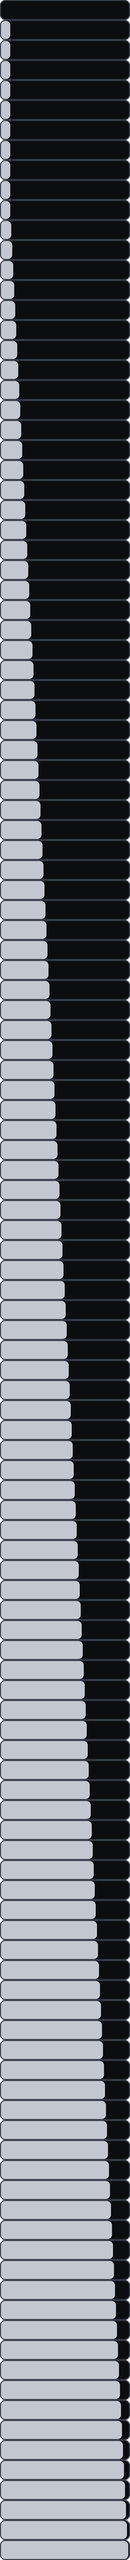
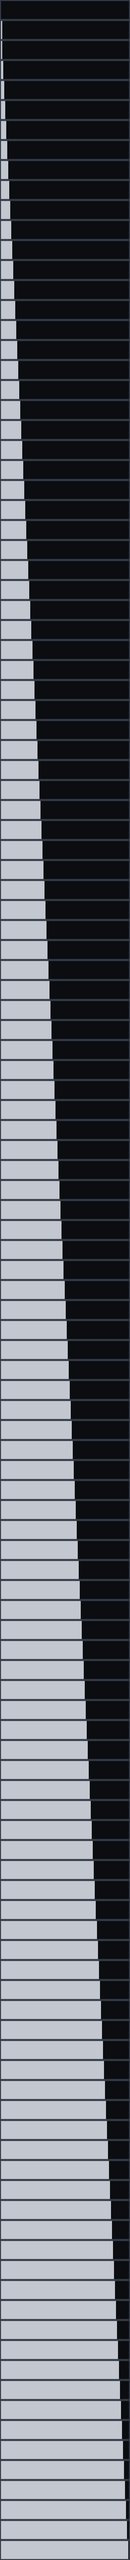
1.7.2: square sliders, two-way matrix AMOUNT
Claude-Session: https://claude.ai/code/session_0186Jh2iBUBCFtuBbzdcXJhH

diff --git a/tools/gen_art.py b/tools/gen_art.py
@@ -81,13 +81,26 @@ def bar(w, h, n=128):
     for i in range(n):
         v = i / (n - 1)
         im = canvas(w, h); d = ImageDraw.Draw(im)
-        r = 5 * SS
-        d.rounded_rectangle((0, 0, w * SS - 1, h * SS - 1), r, fill=hexc("0b0d10"), outline=hexc("363c48"), width=SS)
+        d.rectangle((0, 0, w * SS - 1, h * SS - 1), fill=hexc("0b0d10"), outline=hexc("363c48"), width=SS)   # square corners
         if v > 0.003:
-            x1 = max(2 * r, int((w * SS - 2 * SS) * v))
-            d.rounded_rectangle((SS, SS, x1, h * SS - 1 - SS), r - SS, fill=ACC)
+            x1 = max(2 * SS, int((w * SS - 2 * SS) * v))
+            d.rectangle((SS, SS, x1, h * SS - 1 - SS), fill=ACC)
         frames.append(down(im, w, h))
     strip(frames, "bar_%dx%d.png" % (w, h))
+
+def bar_bipolar(w, h, n=128):
+    """a two-way slider (the matrix AMOUNT): a box with a centre mark, filled from the centre to the value"""
+    frames = []
+    for i in range(n):
+        v = i / (n - 1)
+        im = canvas(w, h); d = ImageDraw.Draw(im)
+        d.rectangle((0, 0, w * SS - 1, h * SS - 1), fill=hexc("0b0d10"), outline=hexc("363c48"), width=SS)
+        c = w * SS // 2
+        x = SS + int((w * SS - 2 * SS) * v)
+        if abs(i - 64) >= 1: d.rectangle((min(c, x), SS, max(c, x), h * SS - 1 - SS), fill=ACC)
+        d.line(((c, SS), (c, h * SS - 1 - SS)), fill=hexc("6fd3c7"), width=SS)
+        frames.append(down(im, w, h))
+    strip(frames, "barbi_%dx%d.png" % (w, h))
 
 def arrows():
     """the arrows of the steppers shown for one model only (gen_layout.py fix_arrows draws them on the page), as the
@@ -257,6 +270,7 @@ if __name__ == "__main__":
     os.makedirs(OUT, exist_ok=True)
     knob()
     for b in BARS: bar(*b)
+    bar_bipolar(400, 30)
     wavebox(*WAVEBOX)
     arrows()
     fold(*FOLD)

diff --git a/tools/gen_layout.py b/tools/gen_layout.py
@@ -268,7 +268,7 @@ for i in range(8):
     y = 200 + i * 62; n = i + 1
     L += [text(40, y, str(n), 1.4), popup(185, y, 240, "", "mm%d_src" % n), popup(470, y, 230, "", "mm%d_dst" % n),
           popup(705, y, 130, "", "mm%d_slot" % n),
-          'slider_h cx=1010 cy=%d w=400 h=34 label="" ns=0 key=mm%d_amt' % (y, n)]
+          'slider_h cx=1010 cy=%d w=400 h=30 label="" ns=0 key=mm%d_amt strip=images/dc/barbi_400x30.png frames=128 bw=400' % (y, n)]
 L.append('qlinks "MATRIX" = ' + ",".join(["mm%d_amt" % n for n in range(1, 9)] + ["mm%d_dst" % n for n in range(1, 9)]))
 MATRIX = "\n".join(L) + "\n"
 

diff --git a/CHANGES.md b/CHANGES.md
@@ -6,6 +6,7 @@ NorthWest is called DeathCoast from 1.7 (after the Costa da Morte). The entries 
 
 - Colours: light grey (#C3C8D0) instead of lilac on knobs, sliders, rules and the logo's D and C; turquoise and the
   blue-black ground stay.
+- Sliders with square corners; the matrix AMOUNT is a square two-way slider filling from its centre.
 
 ## DeathCoast 1.7.1
 
